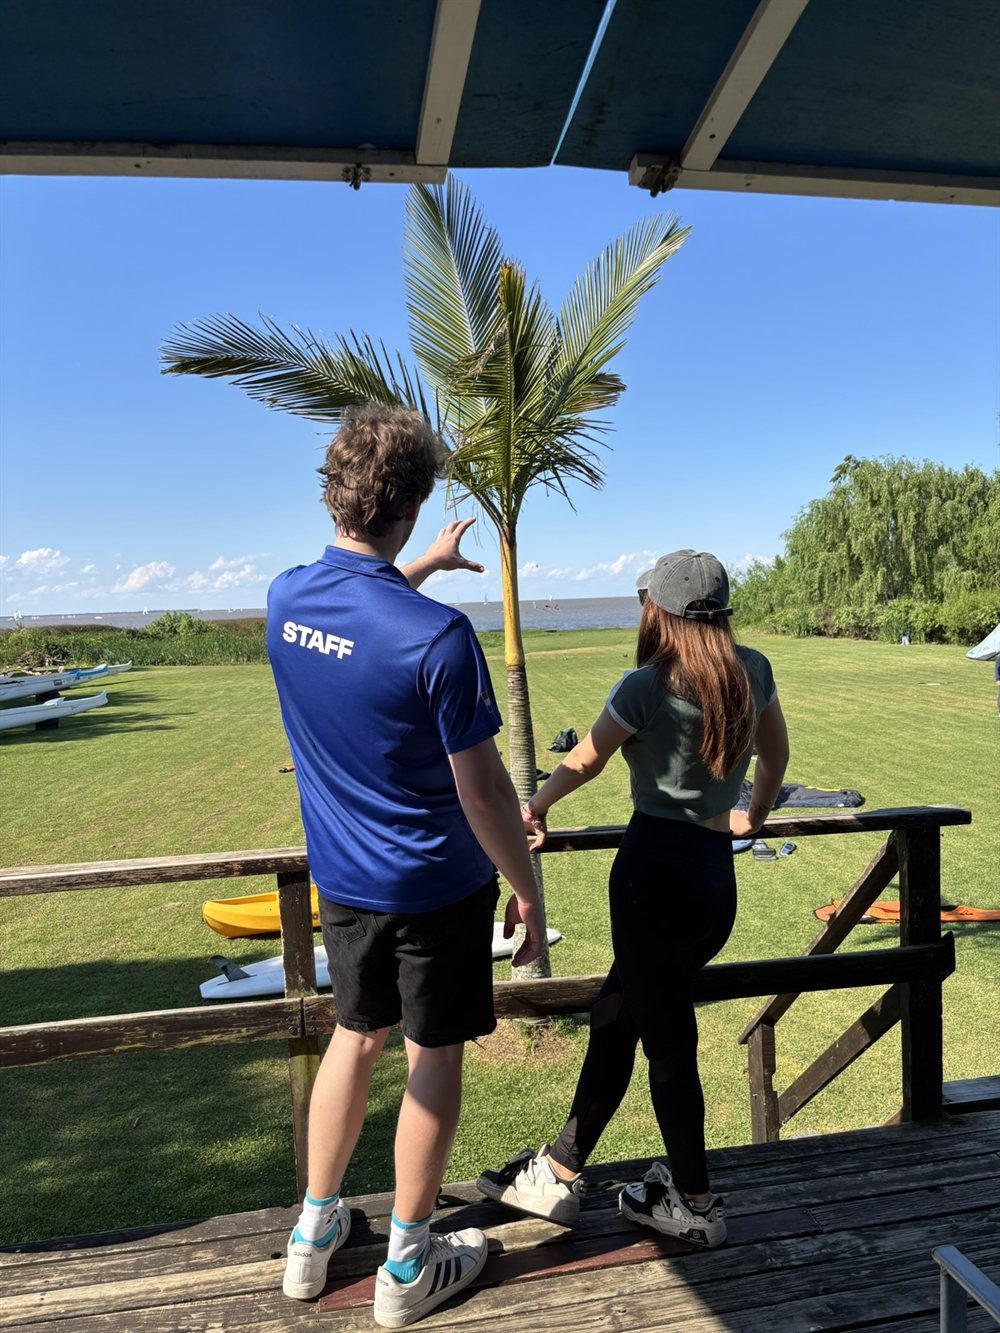
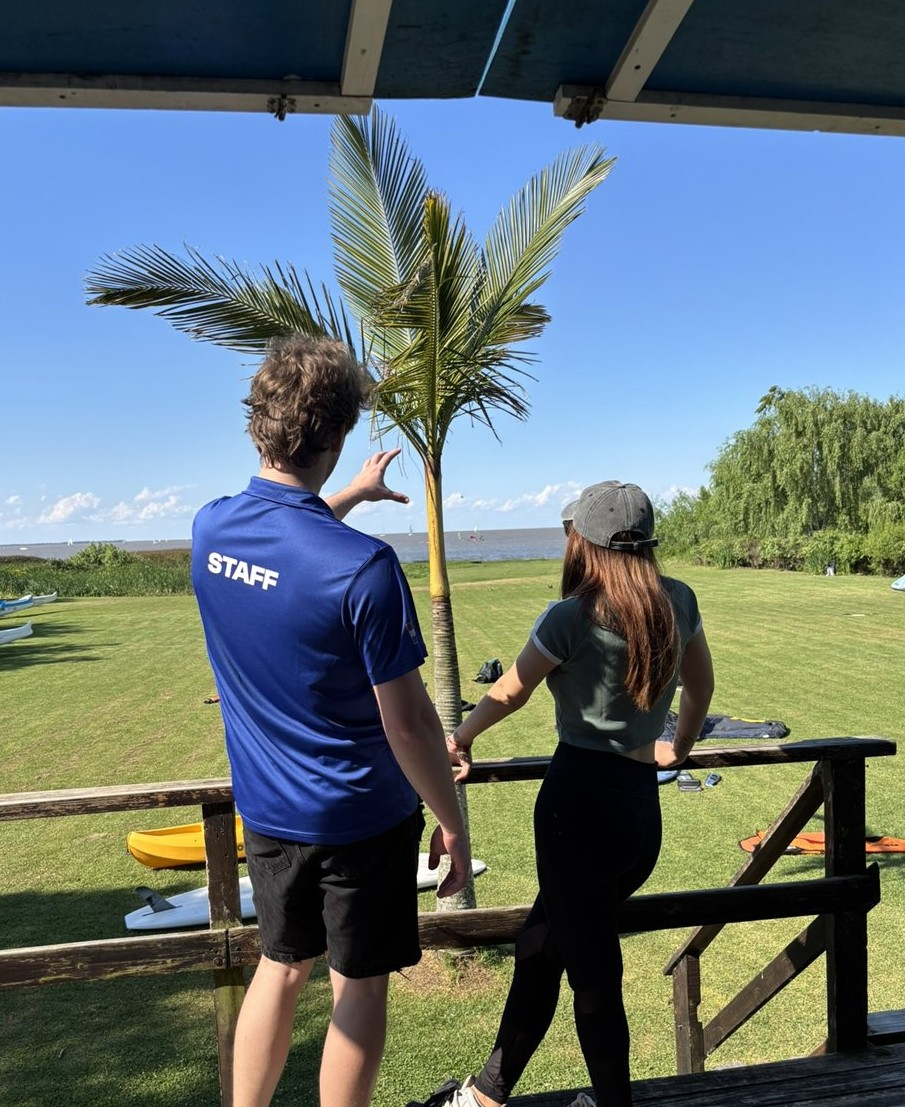
fix(kitesurf): ajustar encuadre en mobile para pasos 01 y 05 evitando cortes en rostros y cabezas

diff --git a/kitesurf/index.html b/kitesurf/index.html
@@ -55,7 +55,7 @@
   <link rel="preload" href="../assets/fonts/anton-latin.woff2" as="font" type="font/woff2" crossorigin>
   <link rel="preload" href="../assets/fonts/inter-latin.woff2" as="font" type="font/woff2" crossorigin>
   <link rel="stylesheet" href="../styles.css">
-  <link rel="stylesheet" href="../sports.css?v=9.1">
+  <link rel="stylesheet" href="../sports.css?v=9.2">
 
   <!-- Schema.org FAQPage Structured Data for Rich Snippets -->
   <script type="application/ld+json">
@@ -1812,6 +1812,6 @@
   <!-- Scripts Oficiales de la Home y de Deportes -->
   <script src="../main.js?v=2"></script>
   <script src="../sports.js?v=4.8"></script>
-  <!-- build v9.1.0-gear-consult-anim -->
+  <!-- build v9.2.0-journey-crop-fix -->
 </body>
 </html>

diff --git a/sports.css b/sports.css
@@ -6862,6 +6862,17 @@ button:focus-visible {
     overflow: hidden;
   }
 
+  /* Ajuste de encuadre en mobile para que no se corten las cabezas ni caras */
+  .journey-scene-layer[data-step="1"] > img,
+  .journey-step[data-step="1"] .journey-step-photo > img {
+    object-position: center 10% !important;
+  }
+
+  .journey-scene-layer[data-step="5"] > img,
+  .journey-step[data-step="5"] .journey-step-photo > img {
+    object-position: center 20% !important;
+  }
+
   .journey-steps-shell::before {
     top: 18px;
     bottom: 18px;
